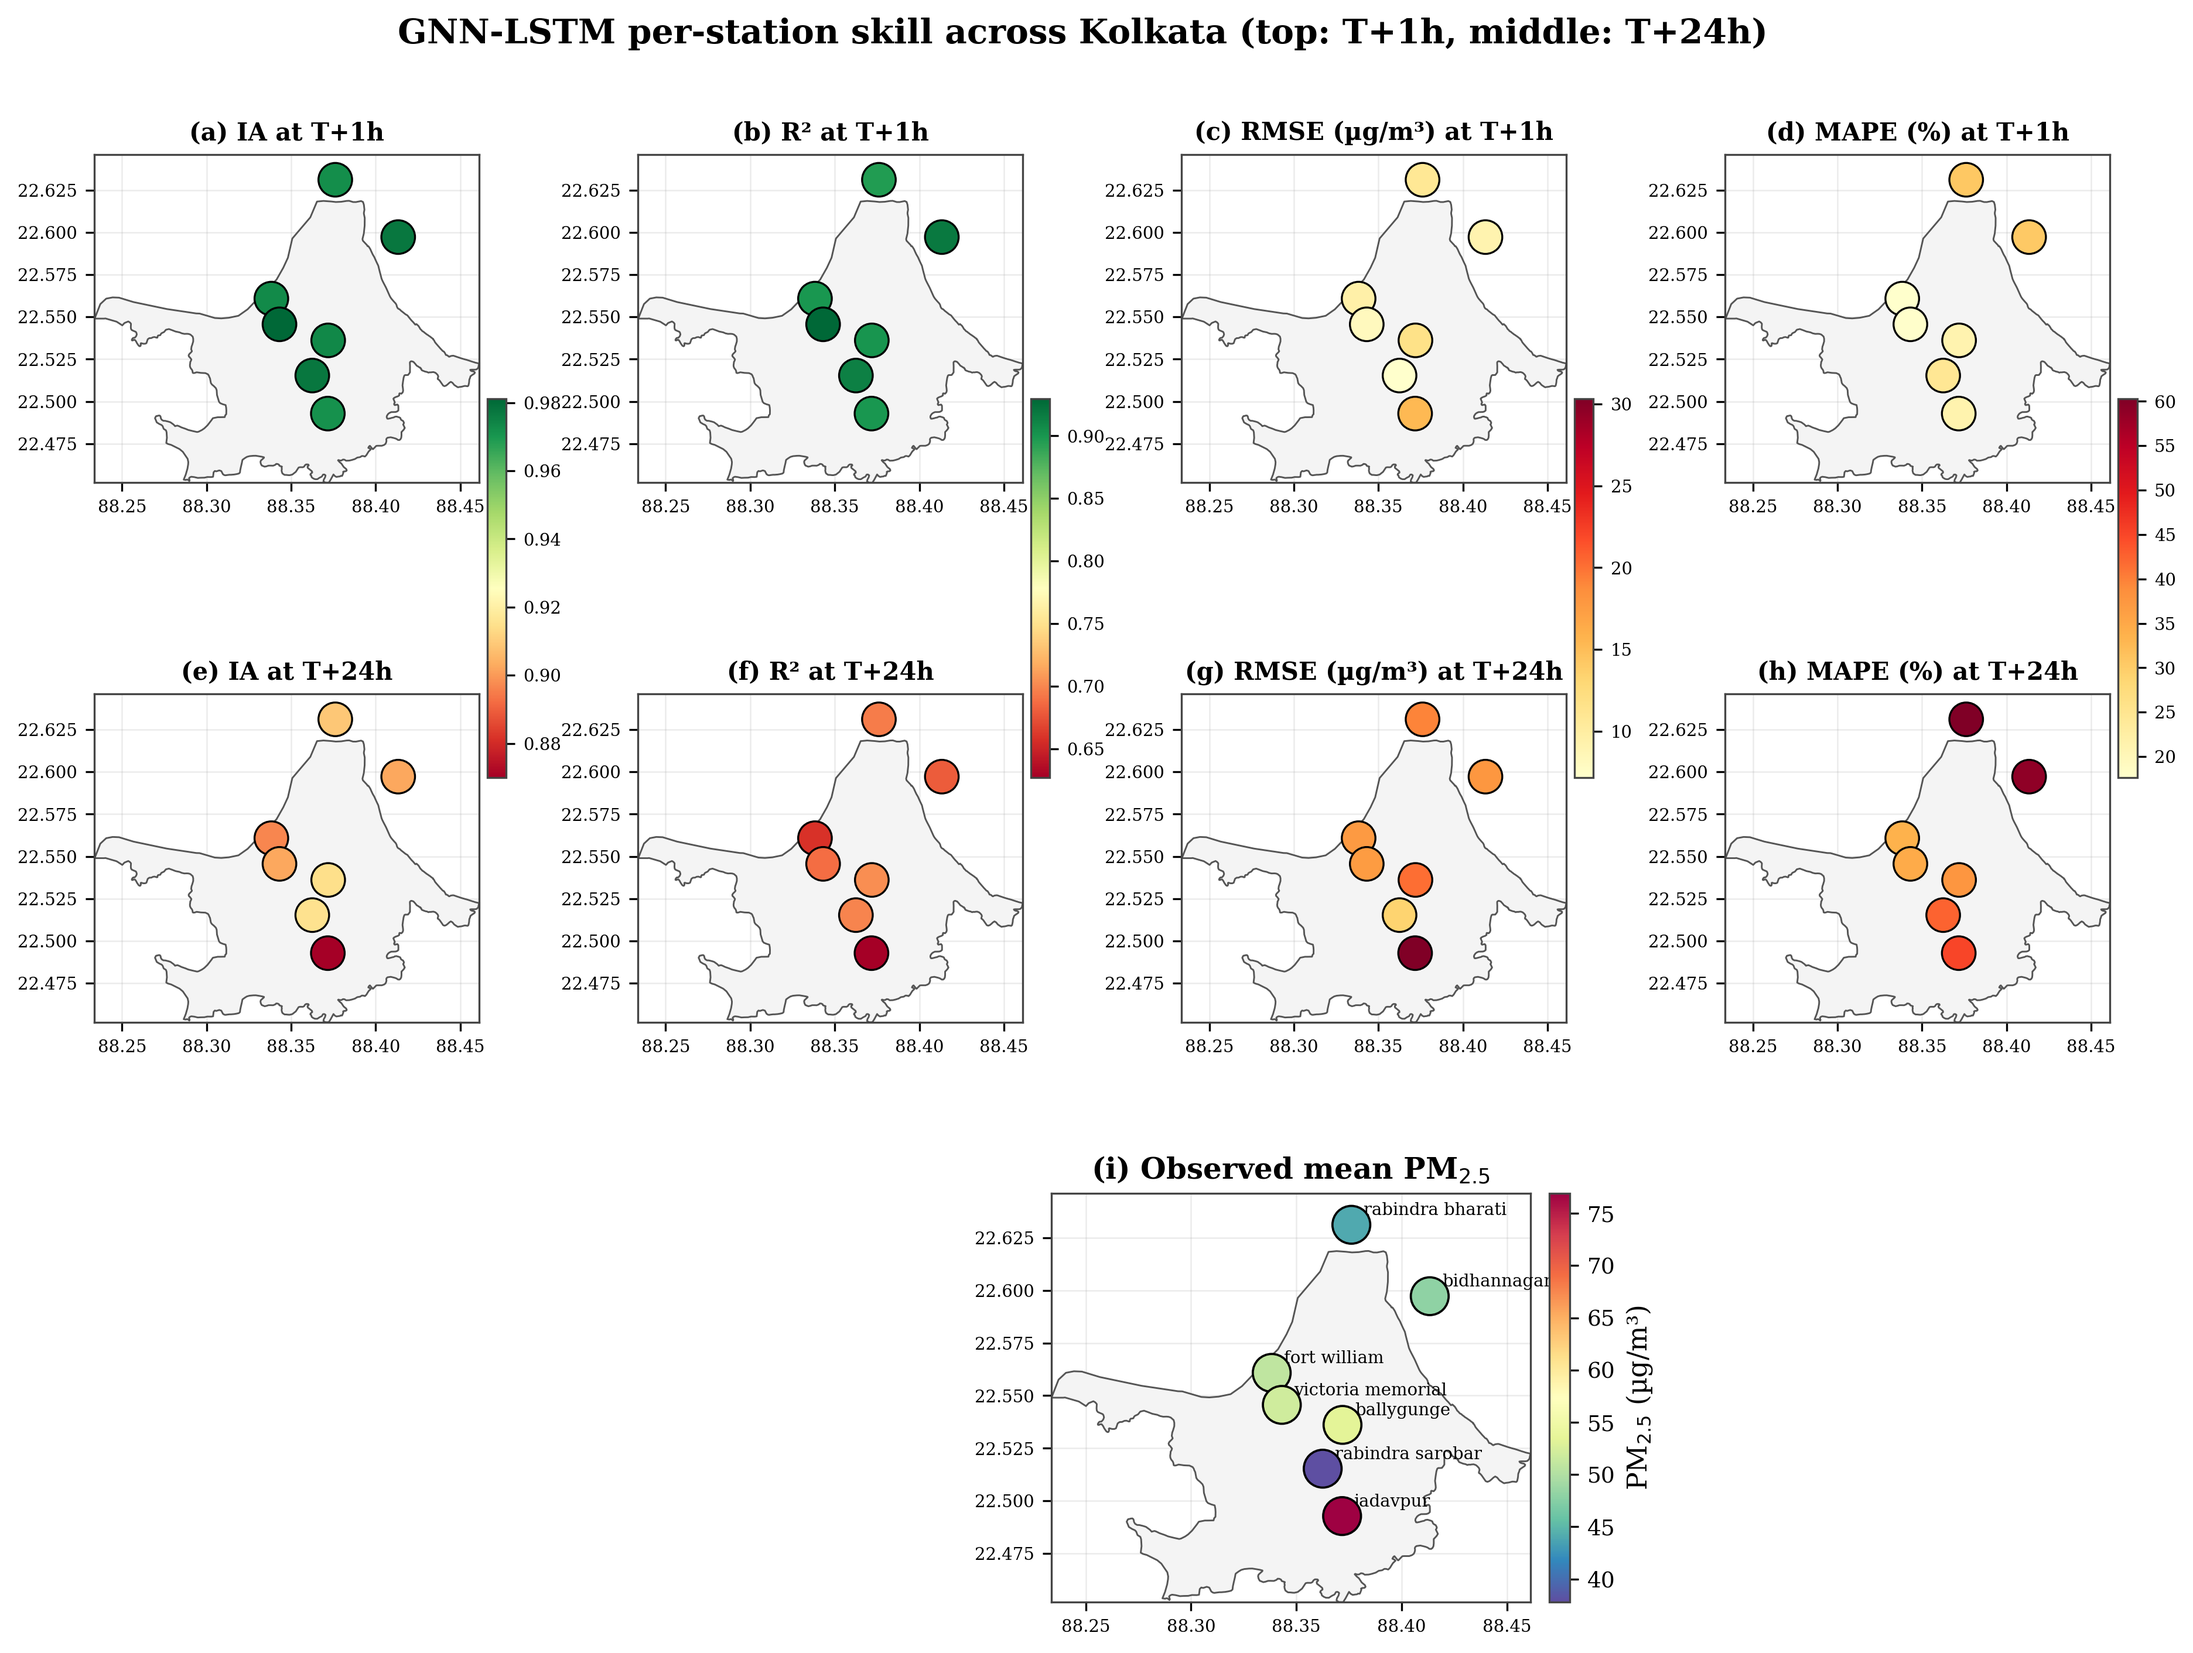
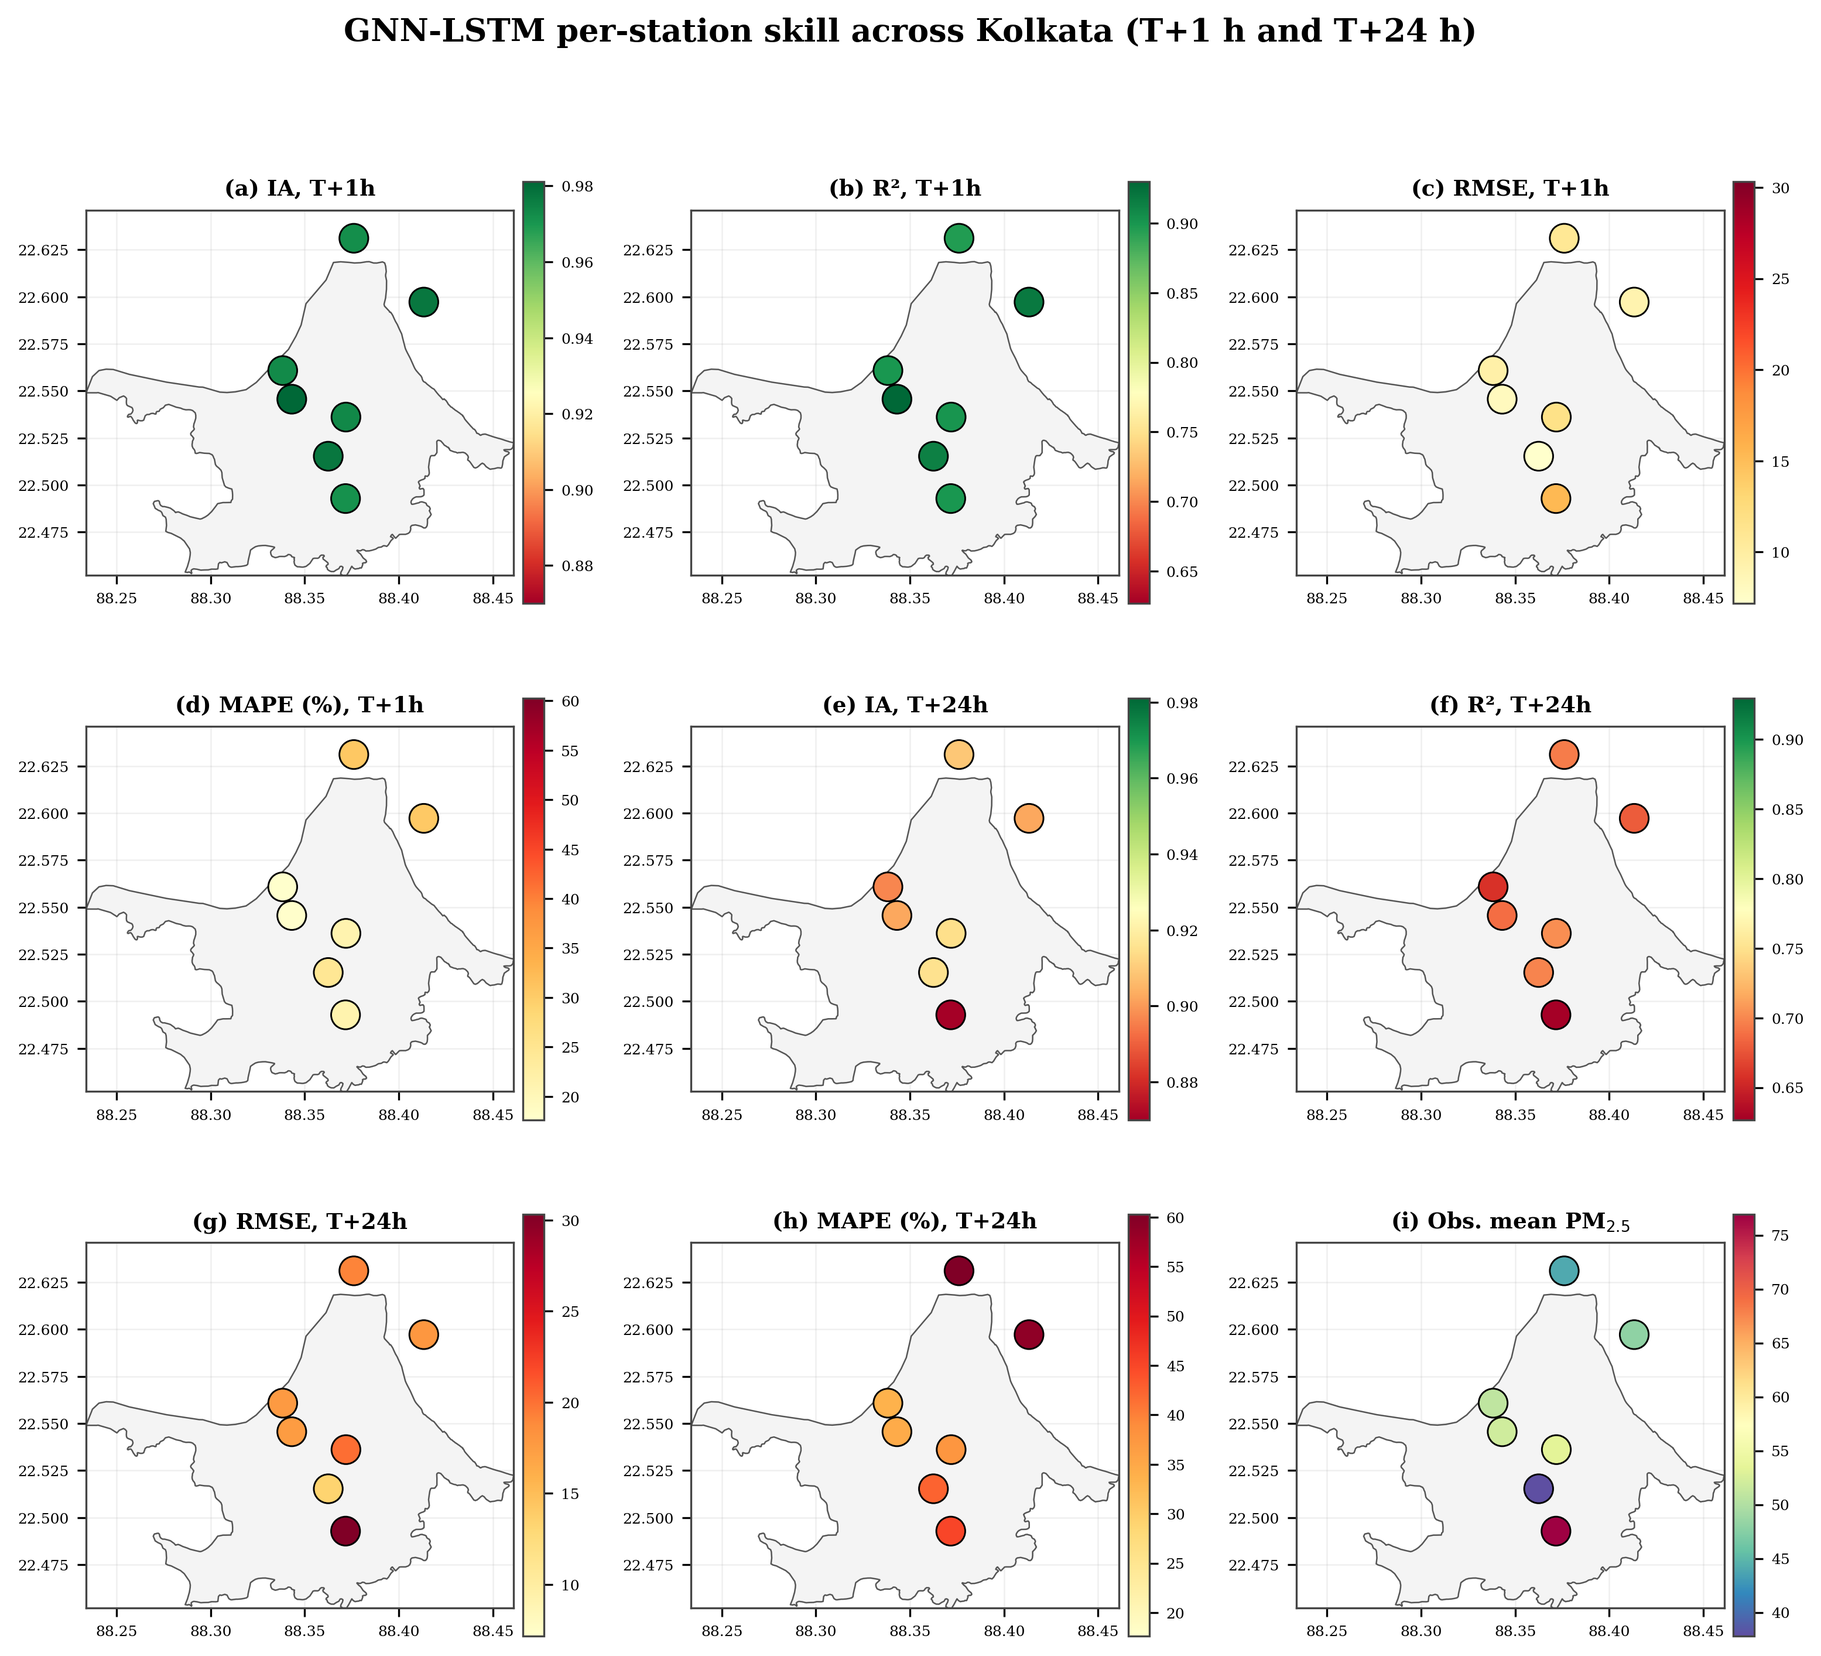
Update visualisations

diff --git a/visualizations/visualize.py b/visualizations/visualize.py
@@ -746,9 +746,8 @@ def fig_metric_maps(df):
         return out
     A_s, A_l = arrs(hidx(h_short)), arrs(hidx(h_long))
 
-    cols = [("IA", "IA", "RdYlGn"), ("R2", "R²", "RdYlGn"),
-            ("RMSE", "RMSE (µg/m³)", "YlOrRd"), ("MAPE", "MAPE (%)", "YlOrRd")]
-    letters = "abcdefgh"
+    metrics = [("IA", "IA", "RdYlGn"), ("R2", "R²", "RdYlGn"),
+               ("RMSE", "RMSE", "YlOrRd"), ("MAPE", "MAPE (%)", "YlOrRd")]
     pad = 0.015
     xlim = (lon.min() - pad, lon.max() + pad)
     ylim = (lat.min() - pad, lat.max() + pad)
@@ -757,47 +756,41 @@ def fig_metric_maps(df):
         xlim = (min(xlim[0], bx[0]), max(xlim[1], bx[2]))
         ylim = (min(ylim[0], bx[1]), max(ylim[1], bx[3]))
 
-    fig = plt.figure(figsize=(15, 11))
-    gs = gridspec.GridSpec(3, 4, height_ratios=[1, 1, 1], hspace=0.32, wspace=0.32)
-
-    def draw(ax, vals, cmap, vmin, vmax, title):
-        if boundary is not None:
-            boundary.plot(ax=ax, facecolor="#f4f4f4", edgecolor="#555", linewidth=0.7, zorder=1)
-        sc = ax.scatter(lon, lat, c=vals, cmap=cmap, vmin=vmin, vmax=vmax,
-                        s=190, edgecolor="k", linewidth=0.8, zorder=5)
-        ax.set_aspect("equal"); ax.set_xlim(xlim); ax.set_ylim(ylim)
-        ax.set_title(title, fontsize=10)
-        ax.tick_params(labelsize=7); ax.grid(alpha=0.25)
-        return sc
-
-    for c, (key, lab, cmap) in enumerate(cols):
+    # shared colour range per metric across both horizons
+    vr = {}
+    for key, _, _ in metrics:
         both = np.concatenate([A_s[key], A_l[key]])
         both = both[~np.isnan(both)]
-        vmin, vmax = float(np.nanmin(both)), float(np.nanmax(both))
-        ax0 = fig.add_subplot(gs[0, c])
-        draw(ax0, A_s[key], cmap, vmin, vmax, f"({letters[c]}) {lab} at T+{h_short}h")
-        ax1 = fig.add_subplot(gs[1, c])
-        sc = draw(ax1, A_l[key], cmap, vmin, vmax, f"({letters[c+4]}) {lab} at T+{h_long}h")
-        cb = fig.colorbar(sc, ax=[ax0, ax1], fraction=0.046, pad=0.02, location="right")
-        cb.ax.tick_params(labelsize=7)
+        vr[key] = (float(both.min()), float(both.max()))
 
-    # (i) observed mean PM2.5, centered
-    axc = fig.add_subplot(gs[2, 1:3])
-    if boundary is not None:
-        boundary.plot(ax=axc, facecolor="#f4f4f4", edgecolor="#555", linewidth=0.7, zorder=1)
-    sc = axc.scatter(lon, lat, c=obs_pm, cmap="Spectral_r", s=240,
-                     edgecolor="k", linewidth=0.9, zorder=5)
-    for s, x, y in zip(stations, lon, lat):
-        axc.annotate(s.replace("_", " "), (x, y), fontsize=7, xytext=(5, 4),
-                     textcoords="offset points")
-    axc.set_aspect("equal"); axc.set_xlim(xlim); axc.set_ylim(ylim)
-    axc.set_title("(i) Observed mean PM$_{2.5}$"); axc.tick_params(labelsize=7)
-    axc.grid(alpha=0.25)
-    fig.colorbar(sc, ax=axc, fraction=0.046, pad=0.02, label="PM$_{2.5}$ (µg/m³)")
+    # ordered, fully-filled 3x3 panel list (8 metric maps + observed mean)
+    panels = []
+    for key, lab, cmap in metrics:
+        panels.append((A_s[key], cmap, vr[key][0], vr[key][1], f"{lab}, T+{h_short}h"))
+    for key, lab, cmap in metrics:
+        panels.append((A_l[key], cmap, vr[key][0], vr[key][1], f"{lab}, T+{h_long}h"))
+    panels.append((obs_pm, "Spectral_r", float(obs_pm.min()), float(obs_pm.max()),
+                   "Obs. mean PM$_{2.5}$"))
 
+    letters = "abcdefghi"
+    fig, axes = plt.subplots(3, 3, figsize=(10.5, 9.6))
+    axes = axes.ravel()
+    for idx, (vals, cmap, vmin, vmax, title) in enumerate(panels):
+        ax = axes[idx]
+        if boundary is not None:
+            boundary.plot(ax=ax, facecolor="#f4f4f4", edgecolor="#555",
+                          linewidth=0.6, zorder=1)
+        sc = ax.scatter(lon, lat, c=vals, cmap=cmap, vmin=vmin, vmax=vmax,
+                        s=140, edgecolor="k", linewidth=0.7, zorder=5)
+        ax.set_aspect("equal"); ax.set_xlim(xlim); ax.set_ylim(ylim)
+        ax.set_title(f"({letters[idx]}) {title}", fontsize=9)
+        ax.tick_params(labelsize=6); ax.grid(alpha=0.2)
+        cb = fig.colorbar(sc, ax=ax, fraction=0.046, pad=0.02)
+        cb.ax.tick_params(labelsize=6)
     fig.suptitle("GNN-LSTM per-station skill across Kolkata "
-                 f"(top: T+{h_short}h, middle: T+{h_long}h)",
-                 fontsize=14, fontweight="bold", y=0.93)
+                 f"(T+{h_short} h and T+{h_long} h)",
+                 fontsize=13, fontweight="bold", y=0.995)
+    fig.tight_layout(rect=[0, 0, 1, 0.97])
     _save(fig, "F15_metric_maps", tight=False)
 
 
